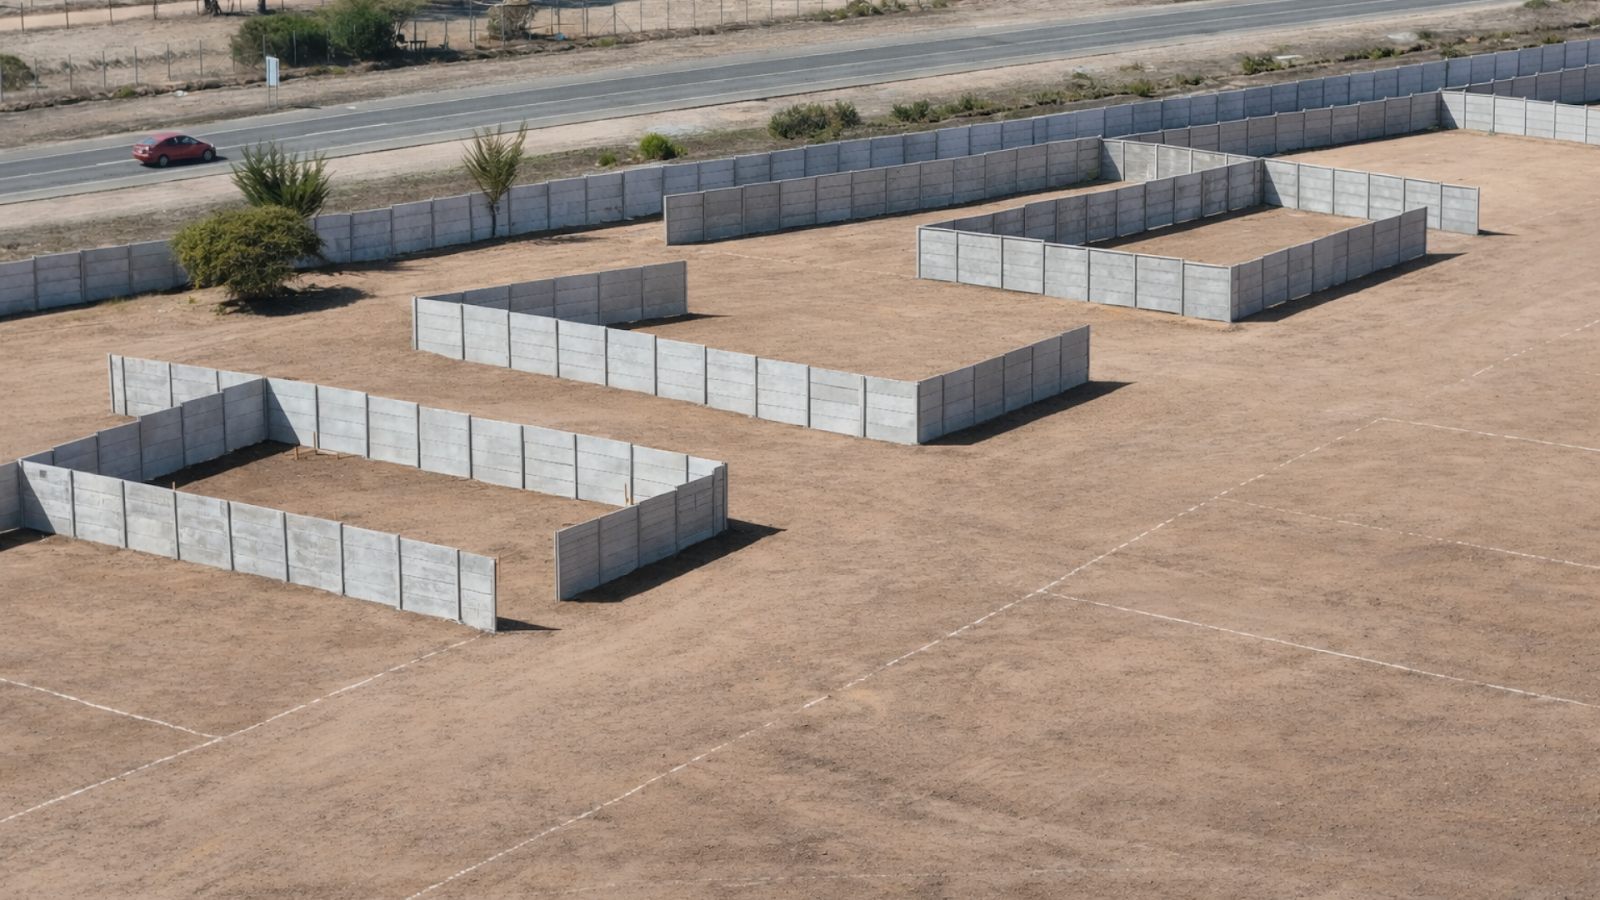
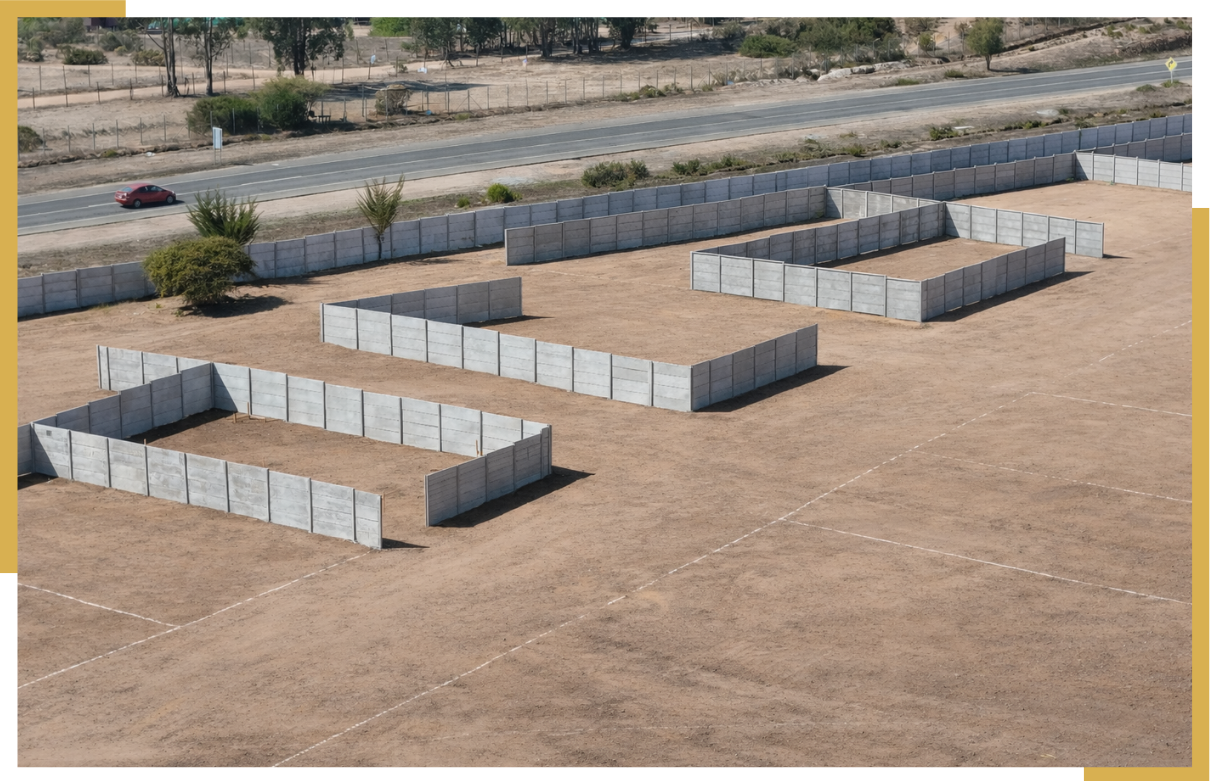
design: add premium gallery layout with 75 percent sold title and gold brackets, optimized for mobile slider

diff --git a/src/app/(main)/proyectos/arena-y-sol/components/AysGallery.tsx b/src/app/(main)/proyectos/arena-y-sol/components/AysGallery.tsx
@@ -1,81 +1,41 @@
 'use client'
 
-import React, { useState } from 'react'
+import React from 'react'
 import Image from 'next/image'
 import styles from '../ArenaYSol.module.css'
 import AnimatedSection from '@/components/ui/AnimatedSection'
-import { X } from 'lucide-react'
-import { motion, AnimatePresence } from 'framer-motion'
 
 const GALLERY_IMAGES = [
-    { src: '/images/arena_y_sol/gallery-1.png', alt: 'Perímetro y cierre', className: styles.item1 },
-    { src: '/images/arena_y_sol/gallery-2.png', alt: 'Caminos y acceso', className: styles.item2 },
-    { src: '/images/arena_y_sol/gallery-3.png', alt: 'Vista panorámica del terreno', className: styles.item3 },
+    { src: '/images/arena_y_sol/gallery-1.png', alt: 'Vista terreno loteo 1' },
+    { src: '/images/arena_y_sol/gallery-2.png', alt: 'Caminos y acceso pandereta' },
+    { src: '/images/arena_y_sol/gallery-3.png', alt: 'Vista panorámica general' },
 ]
 
 export default function AysGallery() {
-    const [selectedImg, setSelectedImg] = useState<string | null>(null)
-
     return (
         <section className={styles.gallerySection}>
-            <div className="container">
+            <div className="container" style={{ maxWidth: '1600px' }}>
                 <AnimatedSection>
-                    <h2 className={styles.galleryTitle}>
-                        Terrenos de 200 m² con todo <br />
-                        lo que necesitas
+                    <h2 className={styles.galleryTitle75}>
+                        Más del <span className={styles.goldText}>75%</span> del proyecto vendido
                     </h2>
                 </AnimatedSection>
 
-                <div className={styles.galleryGrid}>
+                <div className={styles.galleryFlexContainer}>
                     {GALLERY_IMAGES.map((img, idx) => (
-                        <div 
-                            key={idx}
-                            className={`${styles.galleryCard} ${img.className}`}
-                            onClick={() => setSelectedImg(img.src)}
-                        >
-                            <Image
-                                src={img.src}
-                                alt={img.alt}
-                                fill
-                                className="object-cover"
-                            />
-                        </div>
+                        <AnimatedSection key={idx} delay={idx * 150}>
+                            <div className={styles.galleryItemCard}>
+                                <Image
+                                    src={img.src}
+                                    alt={img.alt}
+                                    fill
+                                    className={styles.galleryItemImg}
+                                />
+                            </div>
+                        </AnimatedSection>
                     ))}
                 </div>
             </div>
-
-            {/* Lightbox with Framer Motion */}
-            <AnimatePresence>
-                {selectedImg && (
-                    <motion.div 
-                        initial={{ opacity: 0 }}
-                        animate={{ opacity: 1 }}
-                        exit={{ opacity: 0 }}
-                        className="fixed inset-0 z-[100] bg-black/95 flex items-center justify-center p-4 md:p-12 cursor-zoom-out"
-                        onClick={() => setSelectedImg(null)}
-                    >
-                        <button 
-                            className="absolute top-8 right-8 text-white p-2 hover:bg-white/10 rounded-full transition-colors z-[110]"
-                            onClick={() => setSelectedImg(null)}
-                        >
-                            <X size={40} />
-                        </button>
-                        <motion.div 
-                            initial={{ scale: 0.9, opacity: 0 }}
-                            animate={{ scale: 1, opacity: 1 }}
-                            exit={{ scale: 0.9, opacity: 0 }}
-                            className="relative w-full h-full max-w-7xl"
-                        >
-                            <Image
-                                src={selectedImg}
-                                alt="Vista ampliada"
-                                fill
-                                className="object-contain"
-                            />
-                        </motion.div>
-                    </motion.div>
-                )}
-            </AnimatePresence>
         </section>
     )
 }

diff --git a/src/app/(main)/proyectos/arena-y-sol/ArenaYSol.module.css b/src/app/(main)/proyectos/arena-y-sol/ArenaYSol.module.css
@@ -235,46 +235,59 @@
     overflow: hidden;
 }
 
-/* SECTION: GALLERY (Masonry-like) */
+/* SECTION: GALLERY */
 .gallerySection {
-    padding: 12rem 0;
-    background-color: #263e42; /* Subtle tonal shift */
-}
-
-.galleryTitle {
-    font-family: 'Newsreader', serif;
-    font-size: clamp(2.5rem, 5vw, 4.5rem);
-    text-align: center;
-    margin-bottom: 6rem;
-    font-weight: 300;
-}
-
-.galleryGrid {
-    display: grid;
-    grid-template-columns: repeat(12, 1fr);
-    grid-gap: 2rem;
-    padding: 0 5%;
-}
-
-.galleryCard {
-    position: relative;
-    cursor: zoom-in;
+    padding: 8rem 0;
+    background-color: var(--ays-dark-green);
     overflow: hidden;
-    transition: transform 0.8s cubic-bezier(0.19, 1, 0.22, 1);
 }
 
-.galleryCard img {
-    transition: transform 1.2s cubic-bezier(0.19, 1, 0.22, 1);
+.galleryTitle75 {
+    font-family: 'Manrope', sans-serif;
+    font-size: clamp(2.5rem, 4.5vw, 4rem);
+    text-align: center;
+    margin-bottom: 5rem;
+    font-weight: 800;
+    font-style: italic;
+    color: #ffffff;
+    letter-spacing: -0.02em;
 }
 
-.galleryCard:hover img {
-    transform: scale(1.08);
+.galleryFlexContainer {
+    display: grid;
+    grid-template-columns: repeat(3, 1fr);
+    gap: 3.5rem;
+    padding: 2rem 5% 4rem;
+    max-width: 1500px;
+    margin: 0 auto;
 }
 
-/* Specific heights and placements for editorial look */
-.item1 { grid-column: span 8; height: 600px; }
-.item2 { grid-column: span 4; height: 600px; margin-top: 4rem; }
-.item3 { grid-column: span 12; height: 500px; }
+.galleryItemCard {
+    position: relative;
+    aspect-ratio: 16/10;
+    width: 100%;
+}
+
+.galleryItemCard::before {
+    content: '';
+    position: absolute;
+    top: -15px;
+    bottom: -15px;
+    left: -15px;
+    right: 25px; /* Deja que la imagen tape el borde derecho */
+    border-top: 5px solid var(--ays-gold);
+    border-left: 5px solid var(--ays-gold);
+    border-bottom: 5px solid var(--ays-gold);
+    z-index: 0;
+    pointer-events: none;
+}
+
+.galleryItemImg {
+    position: relative;
+    z-index: 1;
+    object-fit: cover;
+    box-shadow: 0 10px 30px rgba(0, 0, 0, 0.4);
+}
 
 /* SECTION: FINANCING */
 .financingSection {
@@ -388,8 +401,31 @@
         height: 500px;
         order: -1;
     }
-    .galleryGrid { grid-template-columns: 1fr; }
-    .item1, .item2, .item3 { grid-column: span 12; height: 400px; margin-top: 0; }
+    .galleryTitle75 {
+        font-size: 2.2rem;
+        margin-bottom: 3.5rem;
+    }
+
+    .galleryFlexContainer {
+        display: flex;
+        overflow-x: auto;
+        scroll-snap-type: x mandatory;
+        gap: 2rem;
+        padding: 0 5% 3rem;
+        padding-right: 15%; /* Add space at end so last item can be scrolled fully */
+        -ms-overflow-style: none;  /* IE and Edge */
+        scrollbar-width: none;  /* Firefox */
+    }
+
+    .galleryFlexContainer::-webkit-scrollbar {
+        display: none;
+    }
+
+    .galleryItemCard {
+        min-width: 85vw;
+        flex: 0 0 auto;
+        scroll-snap-align: center;
+    }
     .financingGrid { grid-template-columns: 1fr; gap: 5rem; }
     .propertyCard { flex-direction: column; }
     .cardImage { width: 100%; height: 250px; }
